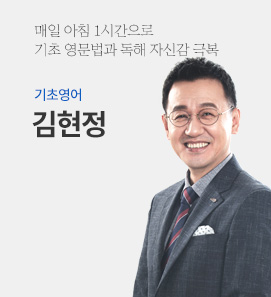
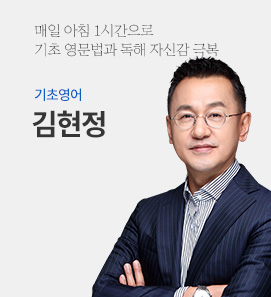
경찰 메인

Changed region(s): [[0.3247, 0.1818, 1.0, 1.0]]

diff --git a/public/css/willbes/style_cop_acad.css b/public/css/willbes/style_cop_acad.css
@@ -112,18 +112,16 @@
     position: relative;
     display: inline;
     float: left;
-    width: 213px;
+    width: 271px;
     height: 297px;
-    margin-right:14px;
-    margin-bottom: 14px;
+    margin-right:12px;
+    margin-bottom: 12px;
     overflow: hidden;
     background: url("../../img/willbes/cop_acad/prof/prof_temp.jpg") no-repeat center center;
 }
-.caProfBox li:first-child,
-.caProfBox li:nth-child(6){
-    margin-right:13px;
-}
-.caProfBox li:nth-child(5),
+
+.caProfBox li:nth-child(4),
+.caProfBox li:nth-child(8),
 .caProfBox li:last-child {
     margin-right:0;
 }

diff --git a/views/willbes/pc/site/main_2002.blade.php b/views/willbes/pc/site/main_2002.blade.php
@@ -53,70 +53,84 @@
                 <div class="will-acadTit">교수별 <span class="tx-color">빠른강좌</span> 찾기</div>
                 <ul class="caProfBox">
                     <li>
-                        <img src="{{ img_url('cop_acad/prof/prof_ske_213.jpg') }}" alt="형사소송법/수사 신광은">
+                        <img src="{{ img_url('cop_acad/prof/prof_ske.jpg') }}" alt="형사소송법/수사 신광은">
                         <div class="caProfBtsn">
                             <div><a href="#none">문풀1단계<span>3.7 개강</span></a></div>
                             <div><a href="#none">기본형소법<span>3.21 개강</span></a></div>
                         </div>
                     </li>
                     <li>
-                        <img src="{{ img_url('cop_acad/prof/prof_jjh_213.jpg') }}" alt="경찰학개론 장정훈">
+                        <img src="{{ img_url('cop_acad/prof/prof_jjh.jpg') }}" alt="경찰학개론 장정훈">
                         <div class="caProfBtsn">
                             <div><a href="#none">문풀1단계<span>3.7 개강</span></a></div>
                             <div><a href="#none">무료특강</a></div>
                         </div>
                     </li>
                     <li>
-                        <img src="{{ img_url('cop_acad/prof/prof_kwu_213.jpg') }}" alt="형법 김원욱">
+                        <img src="{{ img_url('cop_acad/prof/prof_kwu.jpg') }}" alt="형법 김원욱">
                         <div class="caProfBtsn">
                             <div><a href="#none">기본형법<span>3.7 개강</span></a></div>
                             <div><a href="#none">심화강좌</a></div>
                         </div>
                     </li>
                     <li>
-                        <img src="{{ img_url('cop_acad/prof/prof_hsm_213.jpg') }}" alt="경찰영어 하승민">
+                        <img src="{{ img_url('cop_acad/prof/prof_hsm.jpg') }}" alt="경찰영어 하승민">
                         <div class="caProfBtsn">
                             <div><a href="#none">문풀1단계<span>3.2 개강</span></a></div>
                             <div><a href="#none">심화강좌</a></div>
                         </div>
                     </li>
                     <li>
-                        <img src="{{ img_url('cop_acad/prof/prof_otj_213.jpg') }}" alt="한국사 오태진">
-                        <div class="caProfBtsn">
-                            <div><a href="#none">기본한국사<span>2.25 개강</span></a></div>
-                            <div><a href="#none">문풀1단계<span>3.13 개강</span></a></div>
-                        </div>
-                    </li>
-                    <li>
-                        <img src="{{ img_url('cop_acad/prof/prof_wyc_213.jpg') }}" alt="한국사 원유철">
+                        <img src="{{ img_url('cop_acad/prof/prof_wyc.jpg') }}" alt="한국사 원유철">
                         <div class="caProfBtsn">
                             <div><a href="#none">기본한국사<span>2.25 개강</span></a></div>
                             <div><a href="#none">심화강좌</a></div>
                         </div>
                     </li>
                     <li>
-                        <img src="{{ img_url('cop_acad/prof/prof_khj_213.jpg') }}" alt="기초영어 김현정">
+                        <img src="{{ img_url('cop_acad/prof/prof_otj.jpg') }}" alt="한국사 오태진">
+                        <div class="caProfBtsn">
+                            <div><a href="#none">기본한국사<span>2.25 개강</span></a></div>
+                            <div><a href="#none">문풀1단계<span>3.13 개강</span></a></div>
+                        </div>
+                    </li>                    
+                    <li>
+                        <img src="{{ img_url('cop_acad/prof/prof_khj.jpg') }}" alt="기초영어 김현정">
                         <div class="caProfBtsn">
                             <div><a href="#none">지옥탈출<span>3.11 개강</span></a></div>
                             <div><a href="#none">아침특강</a></div>
                         </div>
                     </li>
                     <li>
-                        <img src="{{ img_url('cop_acad/prof/prof_kjk_213.jpg') }}" alt="기초영어 김준기">
+                        <img src="{{ img_url('cop_acad/prof/prof_kjk.jpg') }}" alt="기초영어 김준기">
                         <div class="caProfBtsn">
                             <div><a href="#none">지옥탈출<span>3.11 개강</span></a></div>
                             <div><a href="#none">아침특강</a></div>
                         </div>
                     </li>
                     <li>
-                        <img src="{{ img_url('cop_acad/prof/prof_hsw_213.jpg') }}" alt="면접 황세웅">
+                        <img src="{{ img_url('cop_acad/prof/prof_hsw.jpg') }}" alt="면접 황세웅">
                         <div class="caProfBtsn">
                             <div><a href="#none">면접캠프</a></div>
                             <div><a href="#none">면접 스파르타</a></div>
                         </div>
                     </li>
                     <li>
-                        <img src="{{ img_url('cop_acad/prof/prof_kiy_213.jpg') }}" alt="인적성검사 강인엽">
+                        <img src="{{ img_url('cop_acad/prof/prof_kiy.jpg') }}" alt="인적성검사 강인엽">
+                        <div class="caProfBtsn">
+                            <div><a href="#none">면접캠프</a></div>
+                            <div><a href="#none">면접 스파르타</a></div>
+                        </div>
+                    </li>
+                    <li>
+                        <img src="{{ img_url('cop_acad/prof/prof_ubj.jpg') }}" alt="면접 유봉진">
+                        <div class="caProfBtsn">
+                            <div><a href="#none">면접캠프</a></div>
+                            <div><a href="#none">면접 스파르타</a></div>
+                        </div>
+                    </li>
+                    <li>
+                        <img src="{{ img_url('cop_acad/prof/prof_jyw.jpg') }}" alt="면접 정용욱">
                         <div class="caProfBtsn">
                             <div><a href="#none">면접캠프</a></div>
                             <div><a href="#none">면접 스파르타</a></div>

diff --git a/views/html/main_cop_acad.blade.php b/views/html/main_cop_acad.blade.php
@@ -124,70 +124,84 @@
             <div class="will-acadTit">교수별 <span class="tx-color">빠른강좌</span> 찾기</div>
                 <ul class="caProfBox">
                     <li>
-                        <img src="{{ img_url('cop_acad/prof/prof_ske_213.jpg') }}" alt="형사소송법/수사 신광은">
+                        <img src="{{ img_url('cop_acad/prof/prof_ske.jpg') }}" alt="형사소송법/수사 신광은">
                         <div class="caProfBtsn">
                             <div><a href="#none">문풀1단계<span>3.7 개강</span></a></div>
                             <div><a href="#none">기본형소법<span>3.21 개강</span></a></div>
                         </div>
                     </li>
                     <li>
-                        <img src="{{ img_url('cop_acad/prof/prof_jjh_213.jpg') }}" alt="경찰학개론 장정훈">
+                        <img src="{{ img_url('cop_acad/prof/prof_jjh.jpg') }}" alt="경찰학개론 장정훈">
                         <div class="caProfBtsn">
                             <div><a href="#none">문풀1단계<span>3.7 개강</span></a></div>
                             <div><a href="#none">무료특강</a></div>
                         </div>
                     </li>
                     <li>
-                        <img src="{{ img_url('cop_acad/prof/prof_kwu_213.jpg') }}" alt="형법 김원욱">
+                        <img src="{{ img_url('cop_acad/prof/prof_kwu.jpg') }}" alt="형법 김원욱">
                         <div class="caProfBtsn">
                             <div><a href="#none">기본형법<span>3.7 개강</span></a></div>
                             <div><a href="#none">심화강좌</a></div>
                         </div>
                     </li>
                     <li>
-                        <img src="{{ img_url('cop_acad/prof/prof_hsm_213.jpg') }}" alt="경찰영어 하승민">
+                        <img src="{{ img_url('cop_acad/prof/prof_hsm.jpg') }}" alt="경찰영어 하승민">
                         <div class="caProfBtsn">
                             <div><a href="#none">문풀1단계<span>3.2 개강</span></a></div>
                             <div><a href="#none">심화강좌</a></div>
                         </div>
                     </li>
                     <li>
-                        <img src="{{ img_url('cop_acad/prof/prof_otj_213.jpg') }}" alt="한국사 오태진">
-                        <div class="caProfBtsn">
-                            <div><a href="#none">기본한국사<span>2.25 개강</span></a></div>
-                            <div><a href="#none">문풀1단계<span>3.13 개강</span></a></div>
-                        </div>
-                    </li>
-                    <li>
-                        <img src="{{ img_url('cop_acad/prof/prof_wyc_213.jpg') }}" alt="한국사 원유철">
+                        <img src="{{ img_url('cop_acad/prof/prof_wyc.jpg') }}" alt="한국사 원유철">
                         <div class="caProfBtsn">
                             <div><a href="#none">기본한국사<span>2.25 개강</span></a></div>
                             <div><a href="#none">심화강좌</a></div>
                         </div>
                     </li>
                     <li>
-                        <img src="{{ img_url('cop_acad/prof/prof_khj_213.jpg') }}" alt="기초영어 김현정">
+                        <img src="{{ img_url('cop_acad/prof/prof_otj.jpg') }}" alt="한국사 오태진">
+                        <div class="caProfBtsn">
+                            <div><a href="#none">기본한국사<span>2.25 개강</span></a></div>
+                            <div><a href="#none">문풀1단계<span>3.13 개강</span></a></div>
+                        </div>
+                    </li>                    
+                    <li>
+                        <img src="{{ img_url('cop_acad/prof/prof_khj.jpg') }}" alt="기초영어 김현정">
                         <div class="caProfBtsn">
                             <div><a href="#none">지옥탈출<span>3.11 개강</span></a></div>
                             <div><a href="#none">아침특강</a></div>
                         </div>
                     </li>
                     <li>
-                        <img src="{{ img_url('cop_acad/prof/prof_kjk_213.jpg') }}" alt="기초영어 김준기">
+                        <img src="{{ img_url('cop_acad/prof/prof_kjk.jpg') }}" alt="기초영어 김준기">
                         <div class="caProfBtsn">
                             <div><a href="#none">지옥탈출<span>3.11 개강</span></a></div>
                             <div><a href="#none">아침특강</a></div>
                         </div>
                     </li>
                     <li>
-                        <img src="{{ img_url('cop_acad/prof/prof_hsw_213.jpg') }}" alt="면접 황세웅">
+                        <img src="{{ img_url('cop_acad/prof/prof_hsw.jpg') }}" alt="면접 황세웅">
                         <div class="caProfBtsn">
                             <div><a href="#none">면접캠프</a></div>
                             <div><a href="#none">면접 스파르타</a></div>
                         </div>
                     </li>
                     <li>
-                        <img src="{{ img_url('cop_acad/prof/prof_kiy_213.jpg') }}" alt="인적성검사 강인엽">
+                        <img src="{{ img_url('cop_acad/prof/prof_kiy.jpg') }}" alt="인적성검사 강인엽">
+                        <div class="caProfBtsn">
+                            <div><a href="#none">면접캠프</a></div>
+                            <div><a href="#none">면접 스파르타</a></div>
+                        </div>
+                    </li>
+                    <li>
+                        <img src="{{ img_url('cop_acad/prof/prof_ubj.jpg') }}" alt="면접 유봉진">
+                        <div class="caProfBtsn">
+                            <div><a href="#none">면접캠프</a></div>
+                            <div><a href="#none">면접 스파르타</a></div>
+                        </div>
+                    </li>
+                    <li>
+                        <img src="{{ img_url('cop_acad/prof/prof_jyw.jpg') }}" alt="면접 정용욱">
                         <div class="caProfBtsn">
                             <div><a href="#none">면접캠프</a></div>
                             <div><a href="#none">면접 스파르타</a></div>

diff --git a/views/willbes/pc/site/main_2001_3007.blade.php b/views/willbes/pc/site/main_2001_3007.blade.php
@@ -113,10 +113,10 @@
                                 </div>
                                 <div class="infoList">
                                     <ul class="List-Table">
-                                        <li><a href="#none"><span>[2018년 2차]</span>경찰공무원(일반/101단/경행) 채용시험 기출</a><span class="btn-more"><a href="{{ site_url('/promotion/index/cate/' . $__cfg['CateCode'] . '/code/1010') }}" target="_blank">바로가기 ></a></span></li>
-                                        <li><a href="#none"><span>[2018년 1차]</span>경찰공무원(일반/101단/전의경) 채용시험 기출</a><span class="btn-more"><a href="{{ site_url('/promotion/index/cate/' . $__cfg['CateCode'] . '/code/1010') }}" target="_blank">바로가기 ></a></span></li>
-                                        <li><a href="#none"><span>[2018년 2차]</span>경찰공무원(일반/101단/경행) 채용시험 기출</a><span class="btn-more"><a href="{{ site_url('/promotion/index/cate/' . $__cfg['CateCode'] . '/code/1010') }}" target="_blank">바로가기 ></a></span></li>
-                                        <li><a href="#none"><span>[2018년 1차]</span>경찰공무원(일반/101단/경행) 채용시험 기출</a><span class="btn-more"><a href="{{ site_url('/promotion/index/cate/' . $__cfg['CateCode'] . '/code/1010') }}" target="_blank">바로가기 ></a></span></li>
+                                        <li><a href="#none"><span>[2018년 2차]</span>해양경찰(순경) 채용시험 기출</a><span class="btn-more"><a href="{{ site_url('/promotion/index/cate/' . $__cfg['CateCode'] . '/code/1010') }}" target="_blank">바로가기 ></a></span></li>
+                                        <li><a href="#none"><span>[2018년 1차]</span>해양경찰(순경) 채용시험 기출</a><span class="btn-more"><a href="{{ site_url('/promotion/index/cate/' . $__cfg['CateCode'] . '/code/1010') }}" target="_blank">바로가기 ></a></span></li>
+                                        <li><a href="#none"><span>[2017년 2차]</span>해양경찰(순경) 채용시험 기출</a><span class="btn-more"><a href="{{ site_url('/promotion/index/cate/' . $__cfg['CateCode'] . '/code/1010') }}" target="_blank">바로가기 ></a></span></li>
+                                        <li><a href="#none"><span>[2017년 1차]</span>해양경찰(순경) 채용시험 기출</a><span class="btn-more"><a href="{{ site_url('/promotion/index/cate/' . $__cfg['CateCode'] . '/code/1010') }}" target="_blank">바로가기 ></a></span></li>
                                     </ul>
                                 </div>
                             </div>
